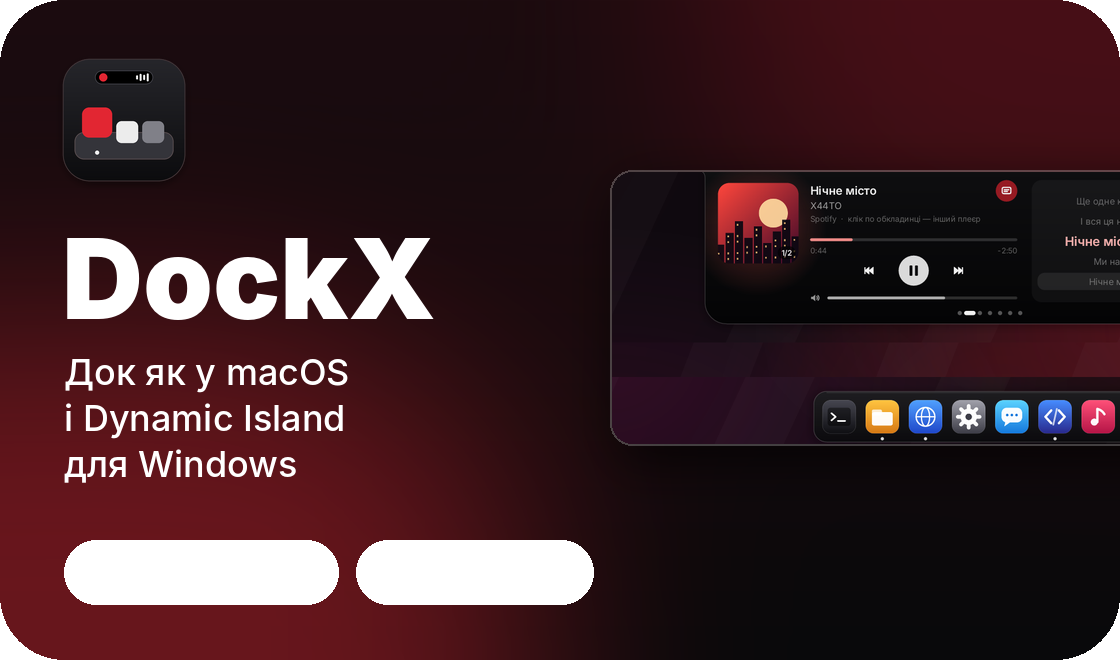
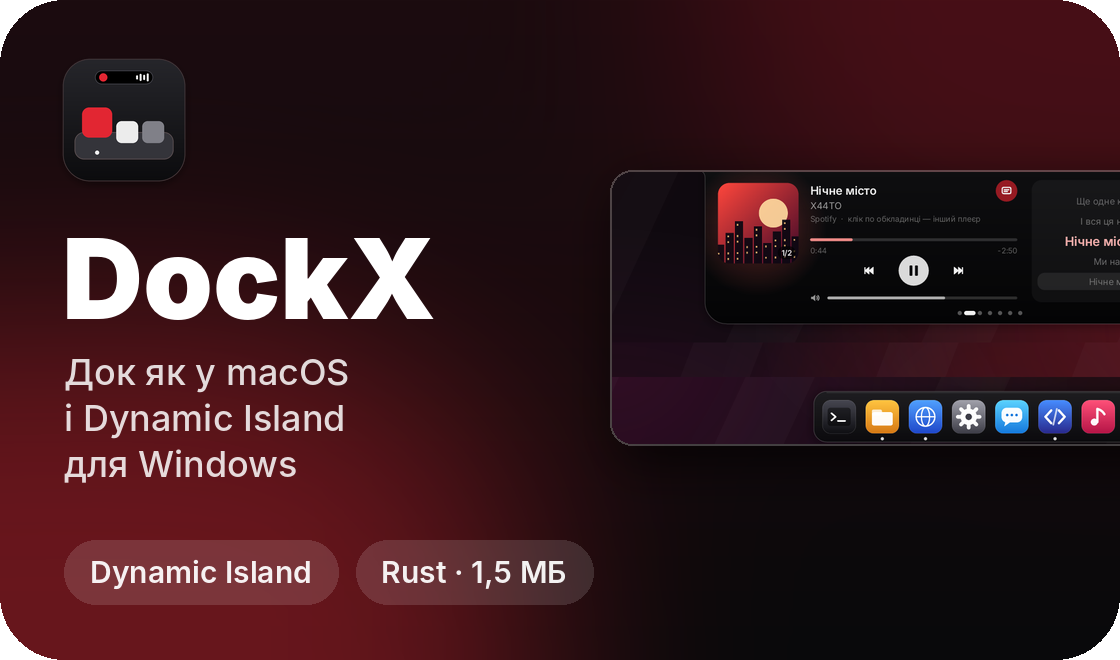
Виправив картку й банер: текст на плашках
Claude-Session: https://claude.ai/code/session_012A3gST31EABoFpeYNoS4VY

Changed region(s): [[0.0312, 0.8182, 0.5312, 0.9394], [0.0625, 0.5455, 0.3125, 0.7273]]

diff --git a/brand/make_cards.py b/brand/make_cards.py
@@ -69,7 +69,8 @@ def profile_card():
     clip = Image.new('RGBA', (W, H), (0, 0, 0, 0))
     clip.paste(layer, (0, 0), mask)
     card.alpha_composite(clip)
-    d = ImageDraw.Draw(card)
+    ov = Image.new('RGBA', (W, H), (0, 0, 0, 0))
+    d = ImageDraw.Draw(ov)
     d.text((62, 210), 'DockX', font=F('Black', 112), fill=(255, 255, 255))
     sub = F('Medium', 36)
     d.text((64, 350), 'Док як у macOS', font=sub, fill=(255, 255, 255, 215))
@@ -79,6 +80,7 @@ def profile_card():
     x = 64
     x += chip(d, x, 540, 'Dynamic Island', f) + 18
     chip(d, x, 540, 'Rust · 1,5 МБ', f)
+    card.alpha_composite(ov)
     card.save(os.path.join(DOCS, 'card.png'))
 
 def banner():
@@ -88,11 +90,13 @@ def banner():
     shadowed(b, sc, W - 800 - 50, (H - sc.height) // 2)
     icon = Image.open(os.path.join(HERE, 'icon-1024.png')).resize((120, 120), Image.LANCZOS)
     b.alpha_composite(icon, (60, 70))
-    d = ImageDraw.Draw(b)
+    ov = Image.new('RGBA', (W, H), (0, 0, 0, 0))
+    d = ImageDraw.Draw(ov)
     d.text((60, 210), 'DockX', font=F('Black', 96), fill=(255, 255, 255))
     d.text((62, 330), 'Док + Dynamic Island', font=F('Medium', 30), fill=(255, 255, 255, 220))
     d.text((62, 370), 'для Windows 10 / 11', font=F('Medium', 30), fill=(255, 255, 255, 220))
     d.text((62, 560), 'by X44TO', font=F('Bold', 26), fill=RED)
+    b.alpha_composite(ov)
     b.convert('RGB').save(os.path.join(DOCS, 'banner.png'), optimize=True)
 
 if __name__ == '__main__':
